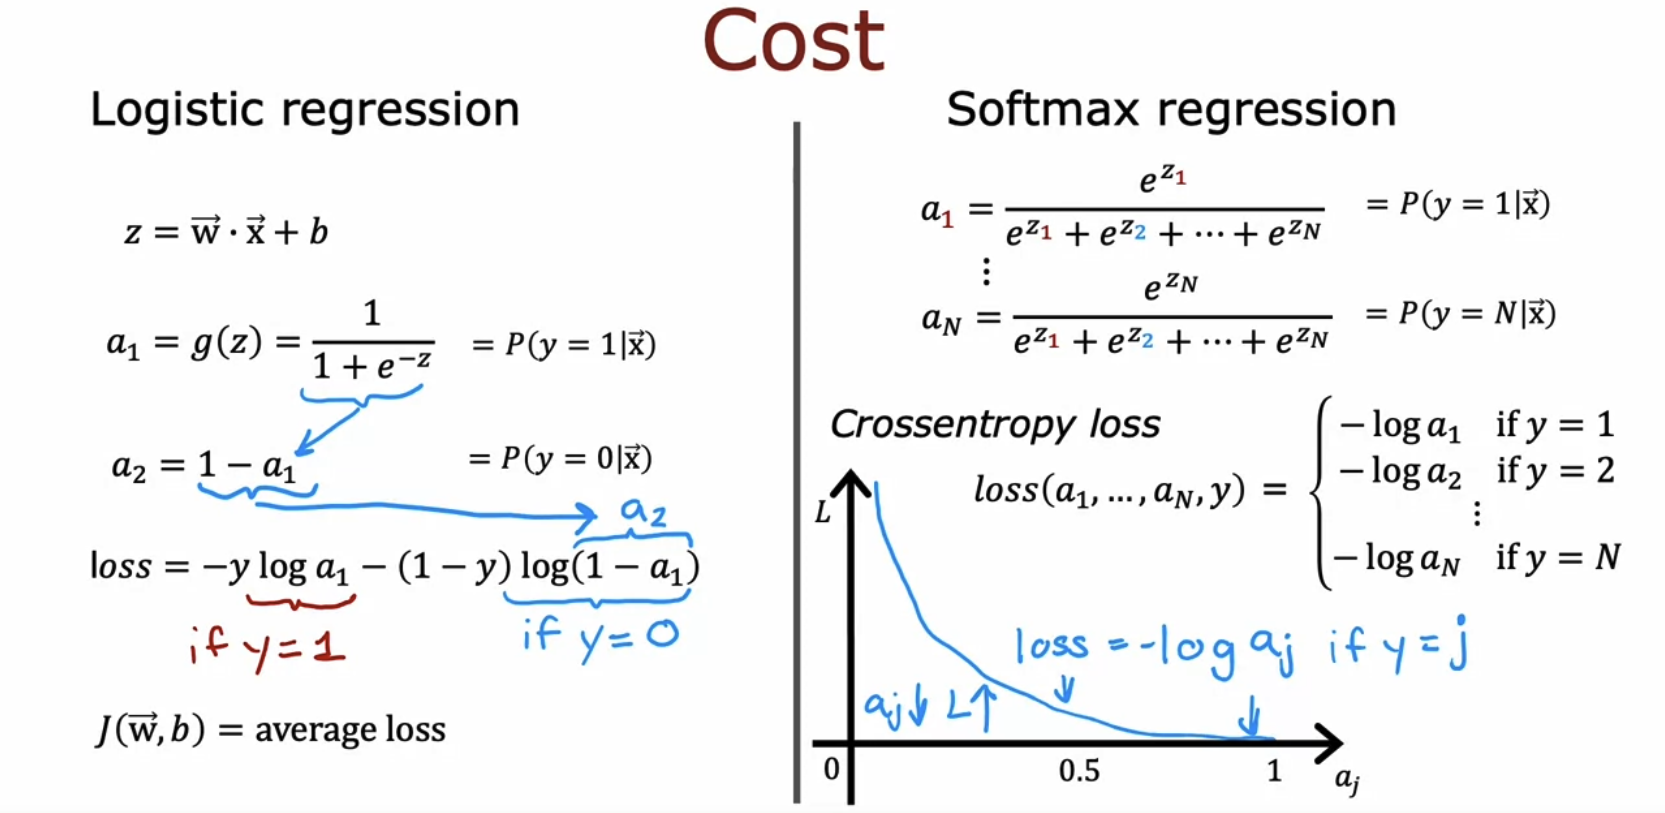
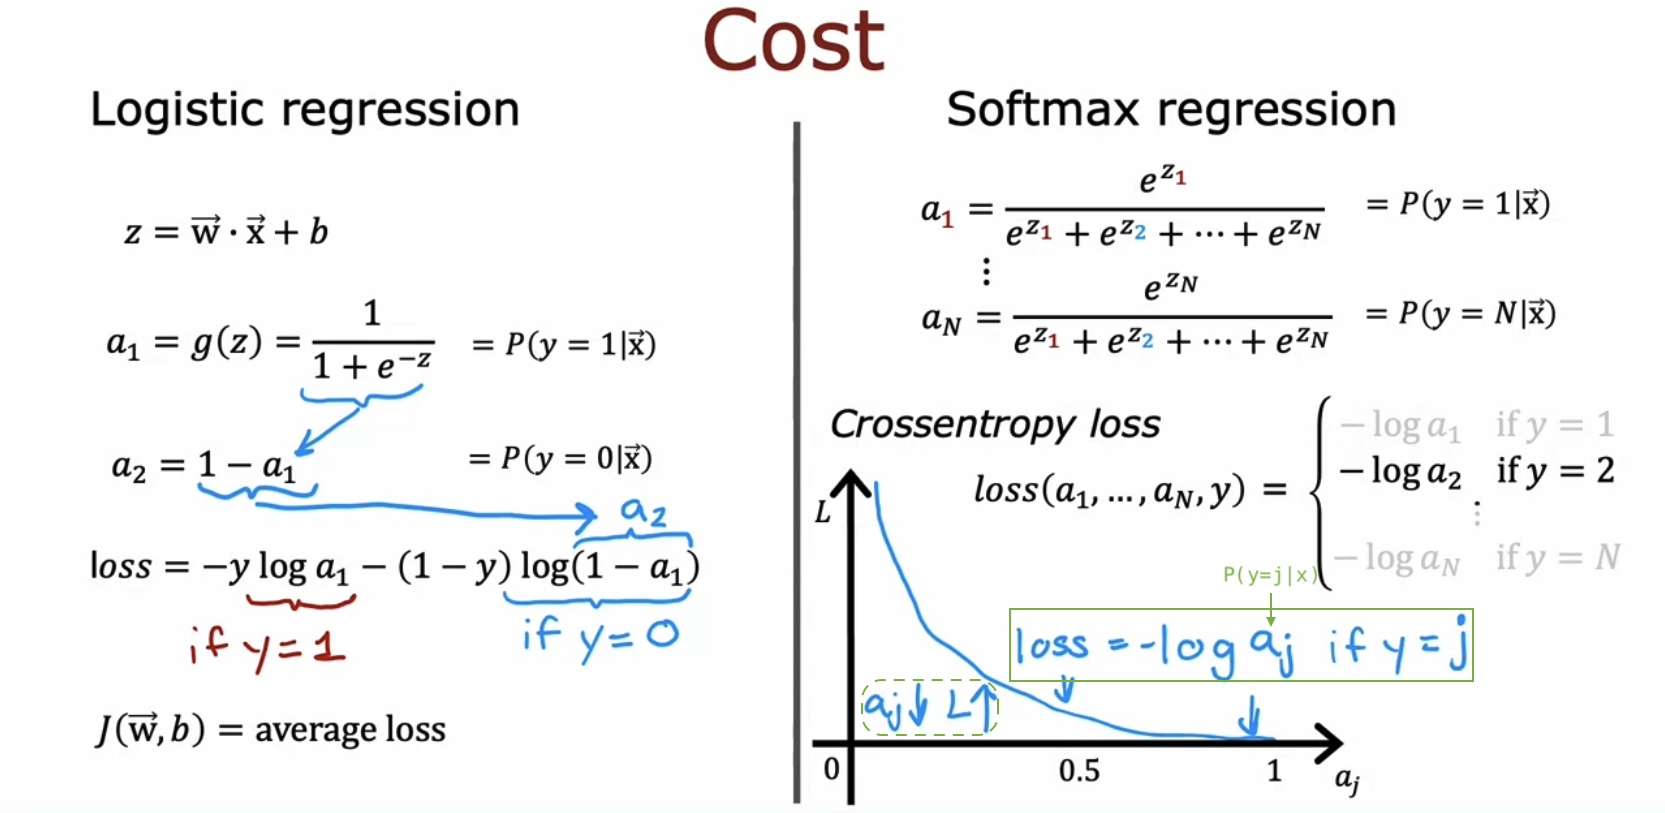
feat: take notes

diff --git a/s1_machine_learning_specialization/c2_advanced_learning_algorithms/w2_neural_network_training/05_multiclass_classification/readme.md b/s1_machine_learning_specialization/c2_advanced_learning_algorithms/w2_neural_network_training/05_multiclass_classification/readme.md
@@ -12,9 +12,13 @@
 
 - The **softmax regression** algorithm is a generalization of the logistic regression algorithm.
 
-  - asdf
+  - If you apply softmax regression with N equals 2, the parameters end up being a little bit different, but it ends up reducing to the logistic regression model.
 
   ![alt text](resources/notes/03.png)
+
+- If y is equal to 2, the loss for this example is the negative log of the probability that y was predicted to be 2. (Note: we do not compute the negative log of a<sub>1</sub> or any other terms in this case.)
+
+  - If y = j, the smaller a<sub>j</sub> is, the bigger the loss.
 
   ![alt text](resources/notes/04.png)
 
